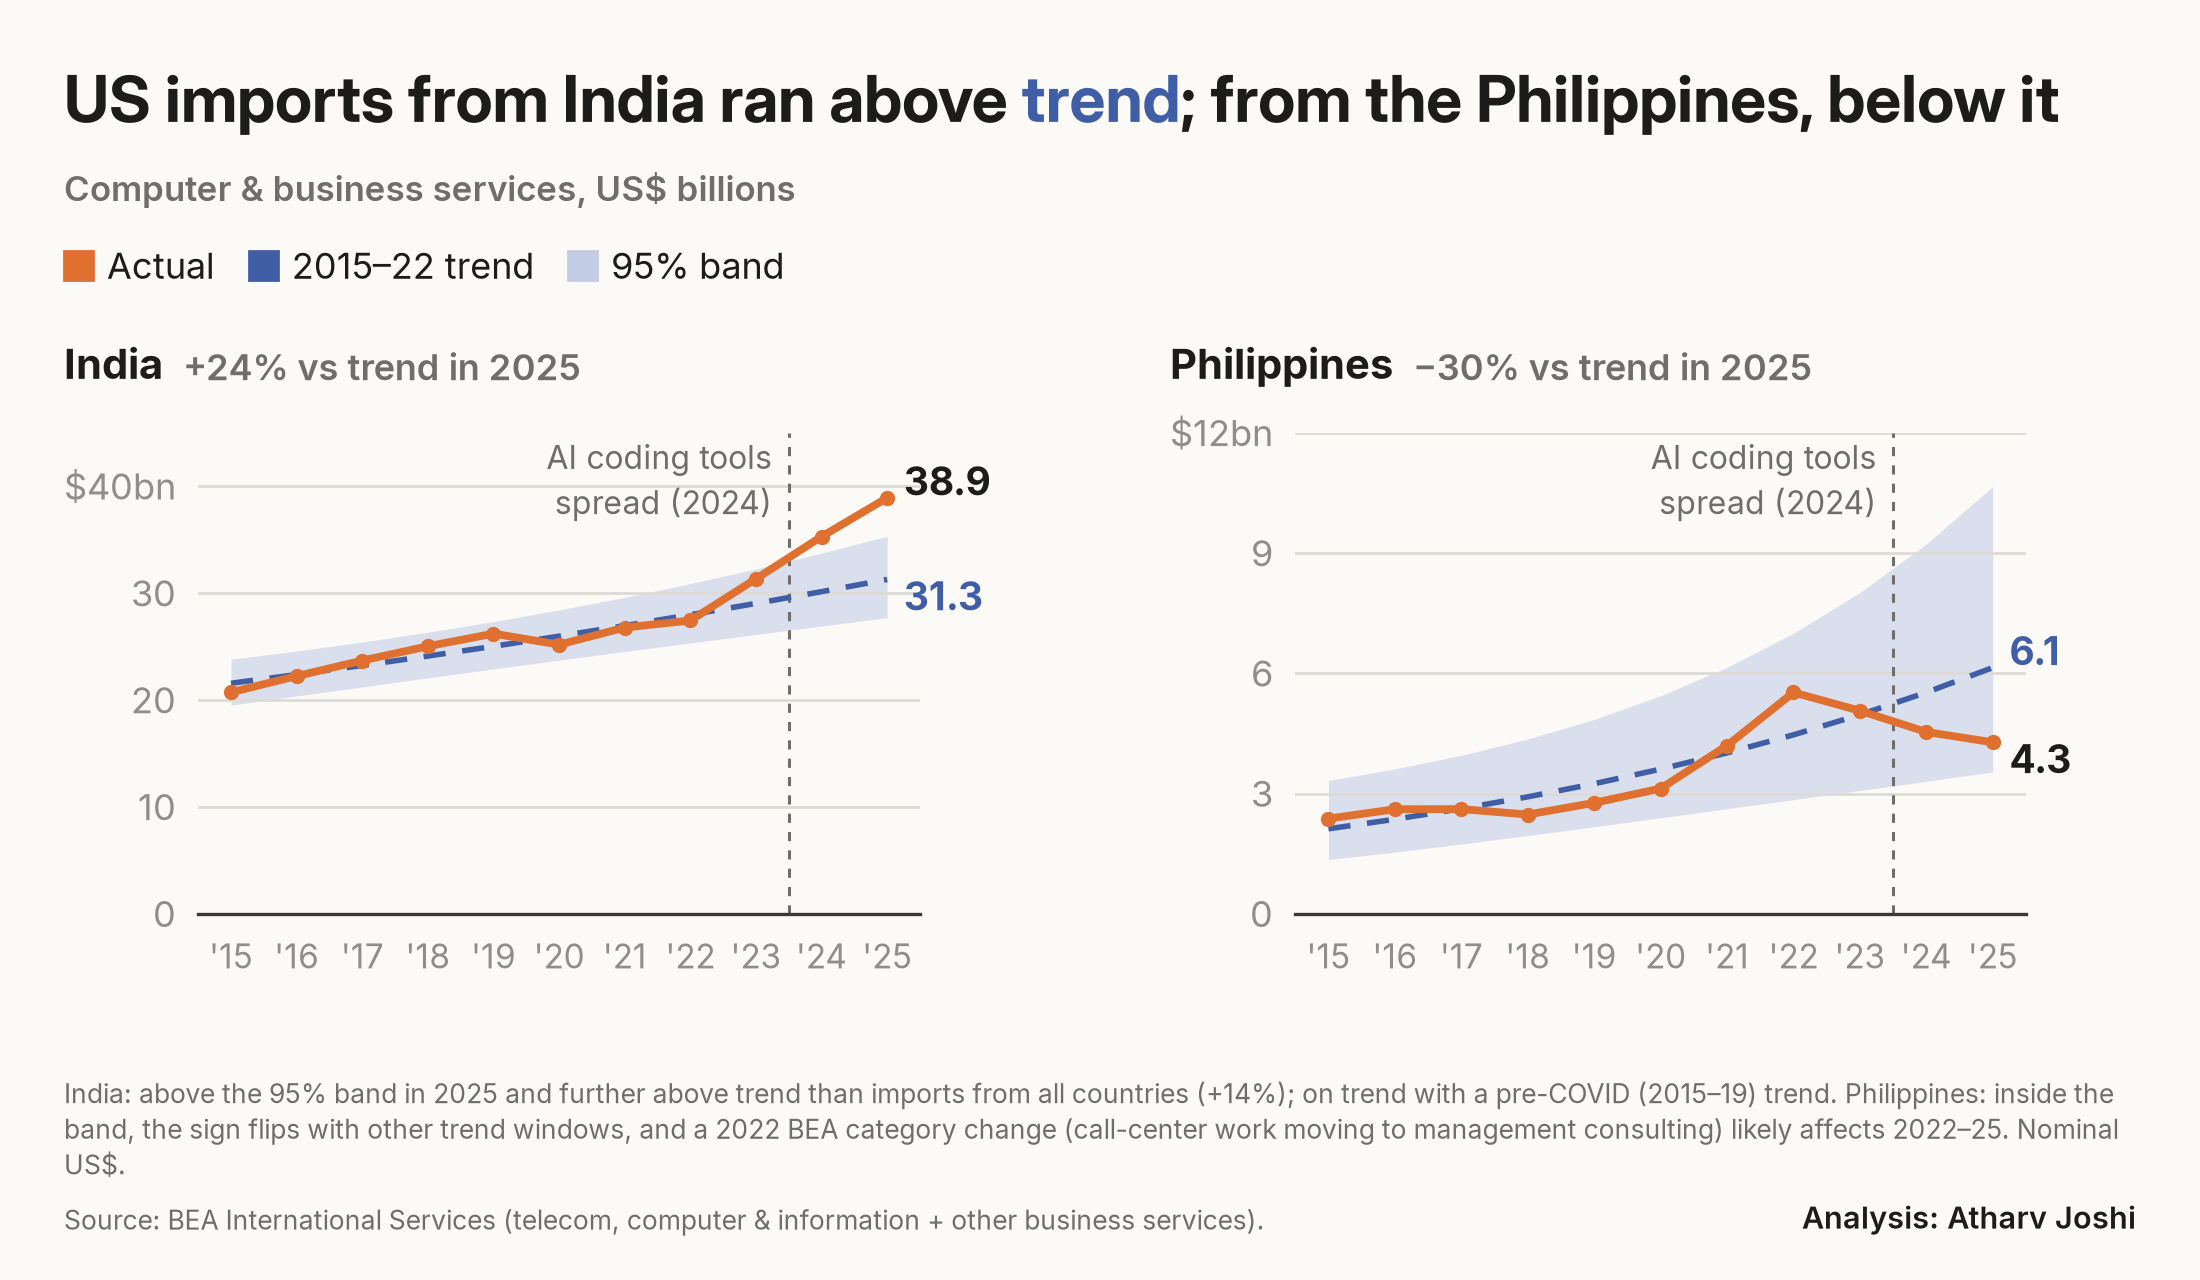
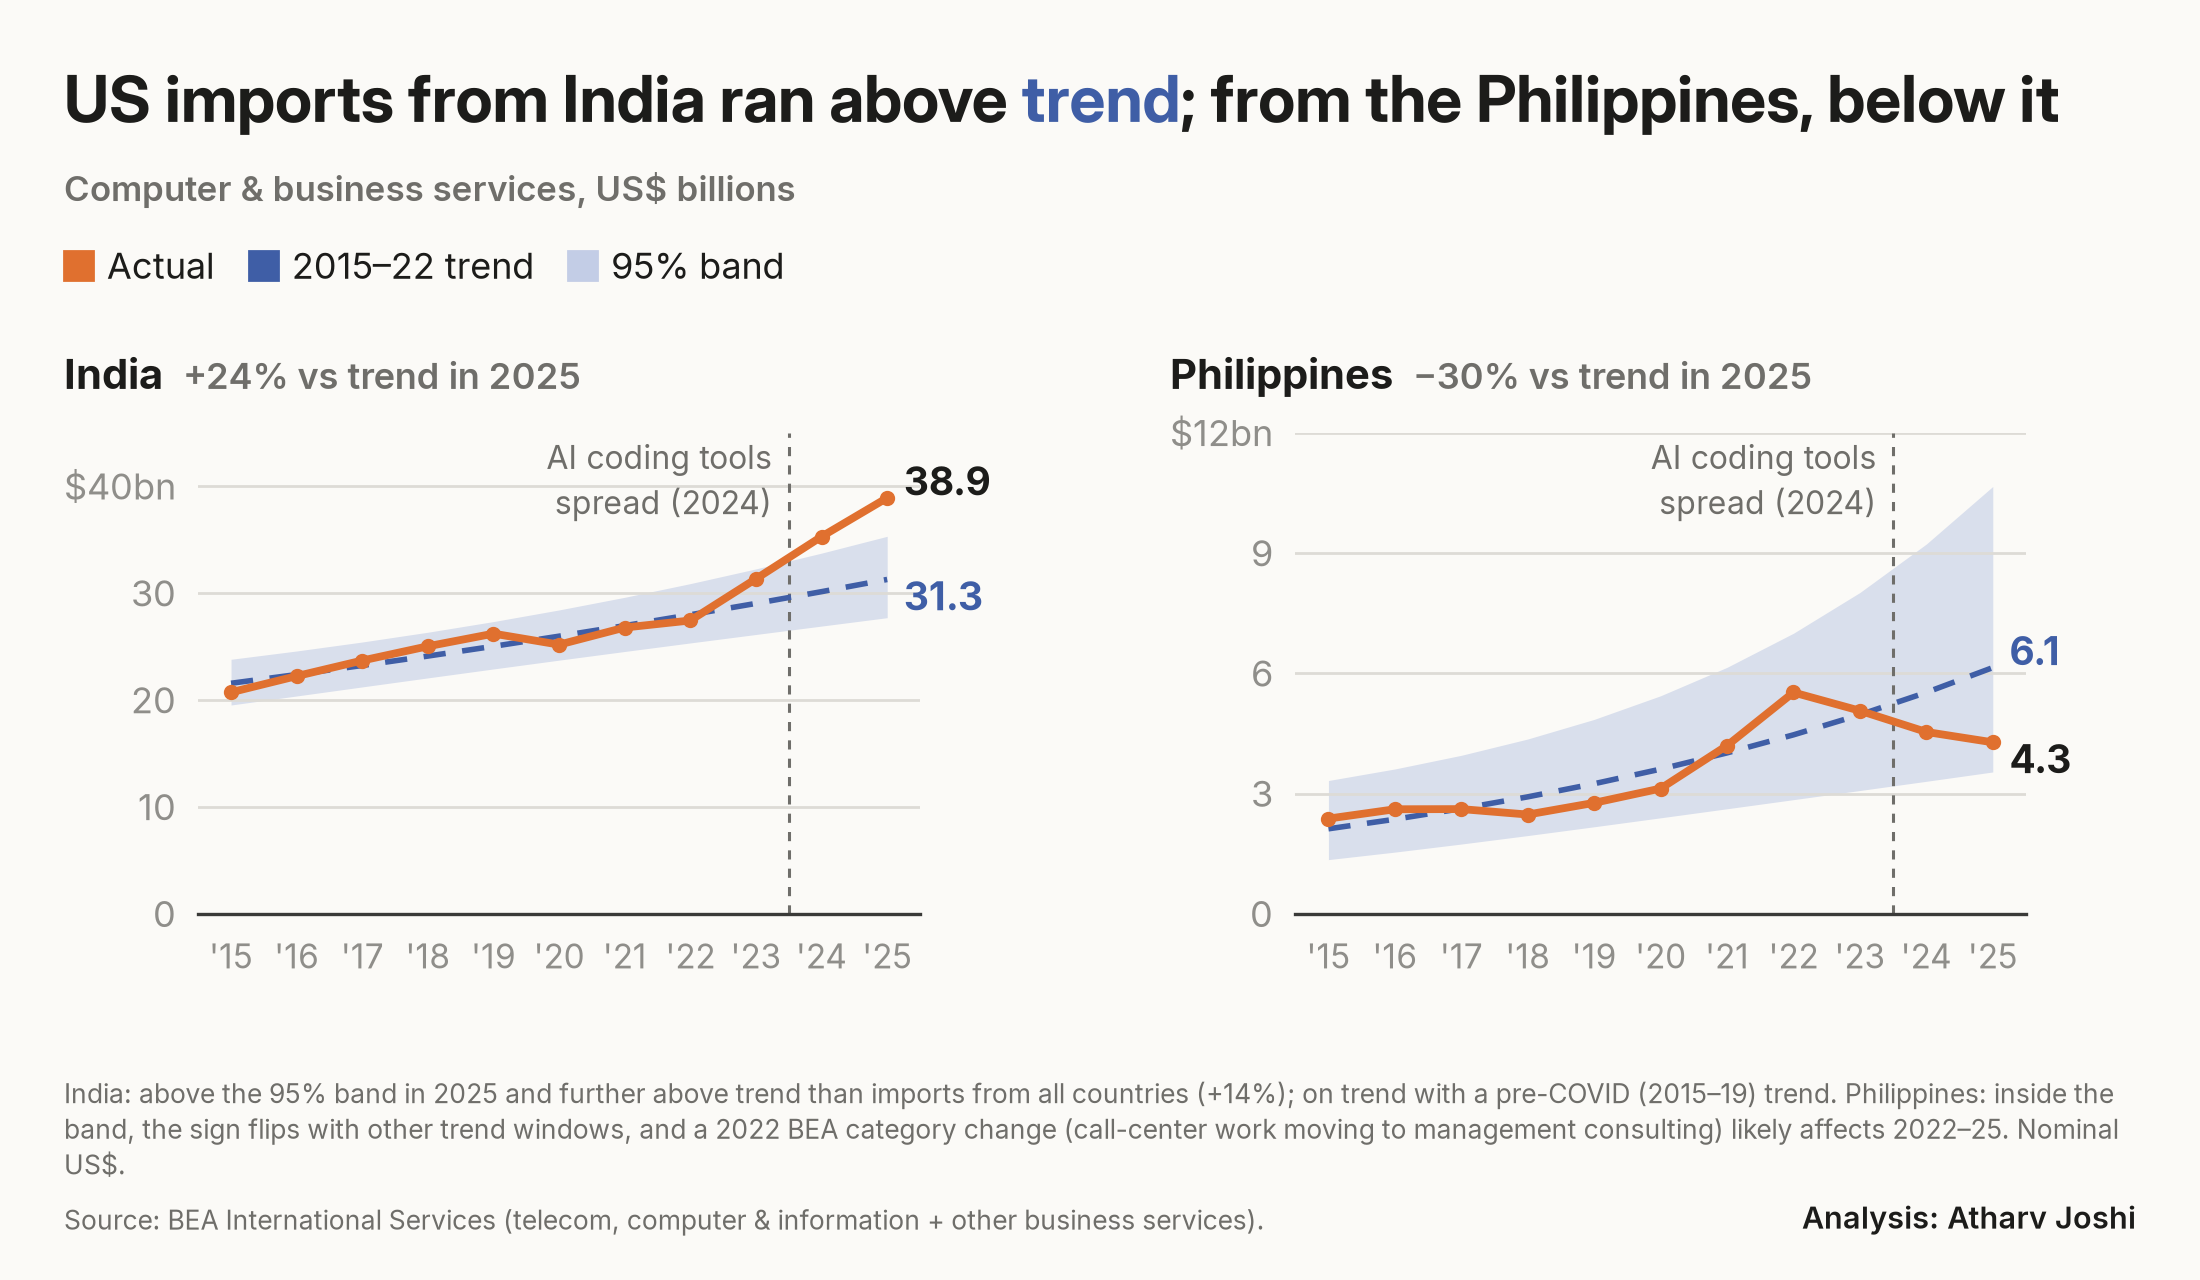
Combined BEA test chart: align panel headings on a shared baseline

Changed region(s): [[0.5255, 0.25, 0.8345, 0.3125], [0.0309, 0.25, 0.2782, 0.3125]]

diff --git a/src/14b_ramp_bea_combined_test.py b/src/14b_ramp_bea_combined_test.py
@@ -56,7 +56,7 @@ for ax in axes:
         d = ax._slot_x0 - ax.get_tightbbox(r).x0 / W
         p = ax.get_position(); ax.set_position([p.x0 + d, p.y0, p.width - d, p.height]); ex.fig.canvas.draw()
     top = ax.get_position().y1 + 0.22 / ex.h
-    ax._heading.set_position((ax._slot_x0, top)); ax._heading.set_va("bottom"); ex.fig.canvas.draw()
-    ax._gap.set_position((ax._slot_x0 + ax._heading.get_window_extent(r).width / W, top)); ax._gap.set_va("bottom")
+    ax._heading.set_position((ax._slot_x0, top)); ax._heading.set_va("baseline"); ex.fig.canvas.draw()
+    ax._gap.set_position((ax._slot_x0 + ax._heading.get_window_extent(r).width / W, top)); ax._gap.set_va("baseline")
 ex.save("outputs/charts/ramp/test_01_bea_combined")
 print("done")
